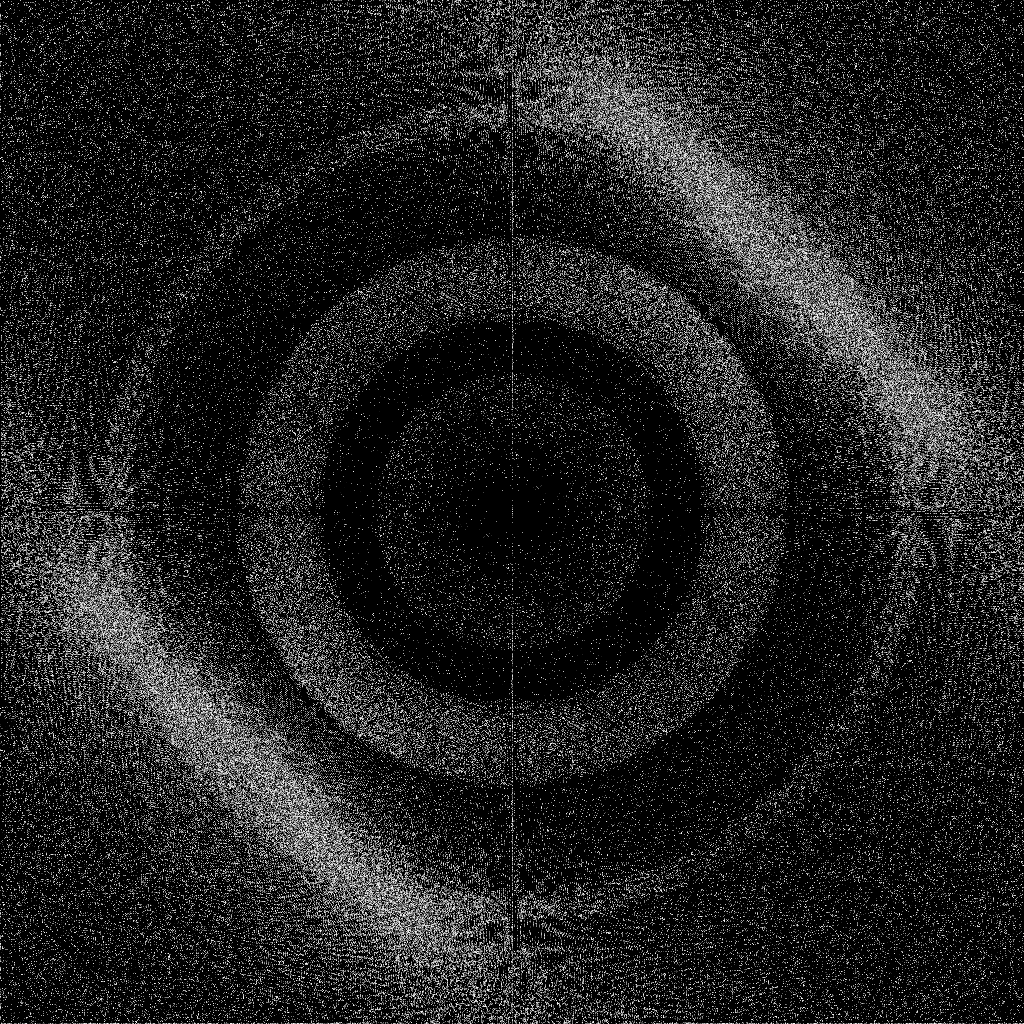
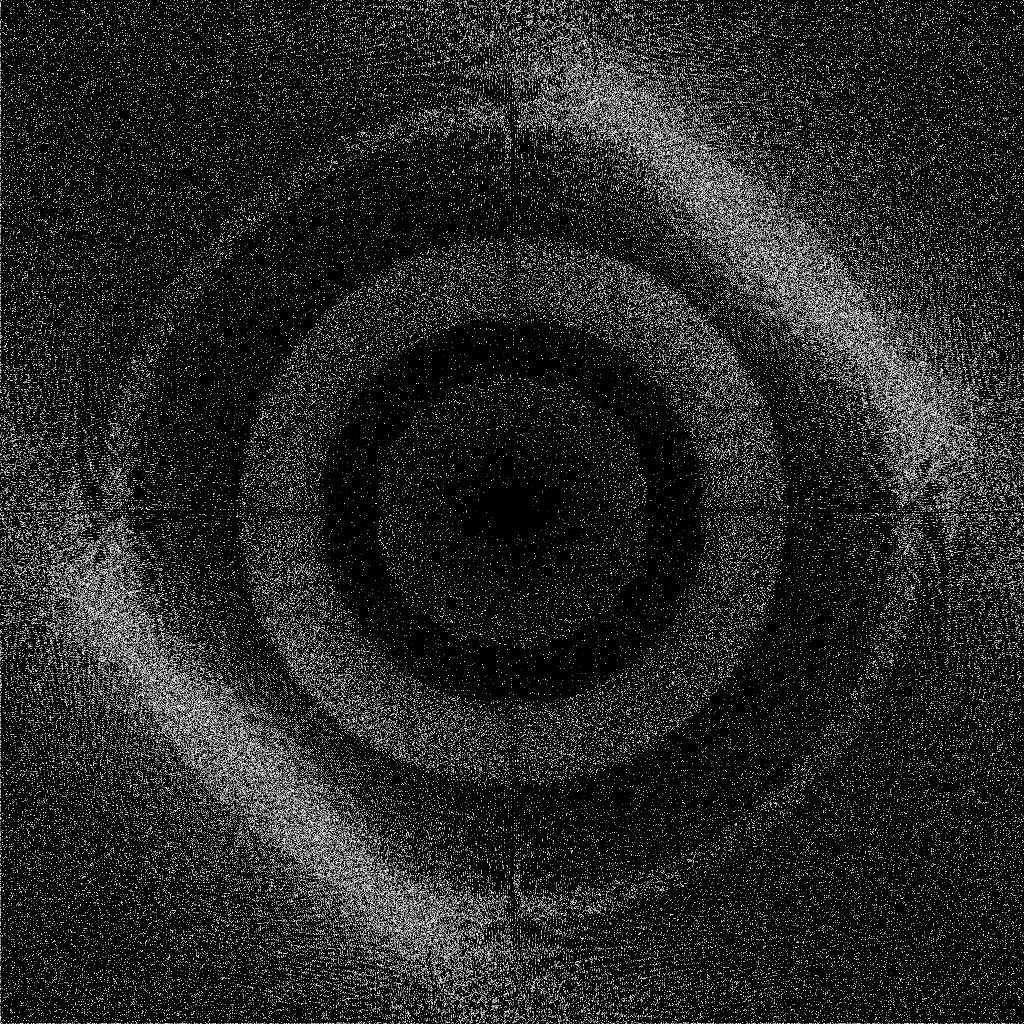
fourier after coordinate change

diff --git a/PhysicallyBasedRendering/TemporalGlareRenderer.cpp b/PhysicallyBasedRendering/TemporalGlareRenderer.cpp
@@ -69,13 +69,22 @@ void TemporalGlareRenderer::InitializeRender()
 	);
 	ftMultipliedTex.SetParameters(GL_LINEAR, GL_LINEAR, GL_CLAMP_TO_EDGE, GL_CLAMP_TO_EDGE);
 
+	iftMultipliedTex.LoadTexture(
+		GL_RGBA32F,
+		WindowManager::GetInstance()->width,
+		WindowManager::GetInstance()->height,
+		GL_RGBA,
+		GL_FLOAT
+	);
+	iftMultipliedTex.SetParameters(GL_LINEAR, GL_LINEAR, GL_CLAMP_TO_EDGE, GL_CLAMP_TO_EDGE);
+
 	GenerateFibersVAO();
 	GenerateParticlesVAO();
 	GeneratePupilVAO();
 
 	//
 	GenerateCosTex();
-	cosFourierTex = ft.fourierTransform2D(cosTex);
+	cosFourierTex = ft.fourierTransform2D(cosTex, 1.0f, false);
 
 	pngExporter.WritePngFile("cos_before.png", cosTex);
 	pngExporter.WritePngFile("cos_after.png", cosFourierTex);
@@ -112,10 +121,12 @@ void TemporalGlareRenderer::Render()
 
 	if (!writeFileNum)
 	{
-		ftMultipliedTex = ft.fourierTransform2D(multipliedTex);
+		ftMultipliedTex = ft.fourierTransform2D(multipliedTex, d*lambda, false);
+		iftMultipliedTex = ft.fourierTransform2D(ftMultipliedTex, d*lambda, true);
 
 		pngExporter.WritePngFile("psf_before.png", multipliedTex);
 		pngExporter.WritePngFile("psf_after.png", ftMultipliedTex);
+		pngExporter.WritePngFile("psf_after_inverse.png", iftMultipliedTex);
 		
 		writeFileNum++;
 	}

diff --git a/PhysicallyBasedRendering/FourierTransform.h b/PhysicallyBasedRendering/FourierTransform.h
@@ -10,11 +10,8 @@ public:
 	FourierTransform() {}
 	virtual ~FourierTransform() {}
 
-	float* fourierTransform2D(const int width, const int height, float* f);
-	Texture2D fourierTransform2D(const Texture2D& inputTexture);
-
-	float* InverseFourierTransform2D(const int width, const int height, float* F);
-	Texture2D InverseFourierTransform2D(const Texture2D& inputTexture);
+	float* fourierTransform2D(const int width, const int height, float* f, const bool isInverse);
+	Texture2D fourierTransform2D(const Texture2D& inputTexture, const float scalingFactor, const bool isInverse);
 
 private:
 

diff --git a/PhysicallyBasedRendering/TemporalGlareRenderer.h b/PhysicallyBasedRendering/TemporalGlareRenderer.h
@@ -48,6 +48,7 @@ private:
 	Texture2D multipliedTex;
 
 	Texture2D ftMultipliedTex;
+	Texture2D iftMultipliedTex;
 
 	VertexArrayObject lensFibersVAO;
 	VertexArrayObject lensPupilVAO;
@@ -72,5 +73,5 @@ private:
 	const float lensFiberOutRadius = 5.0f;
 
 	const float lambda = 0.1f;
-	const float d = 0.01f;
+	const float d = 0.1f;
 };
